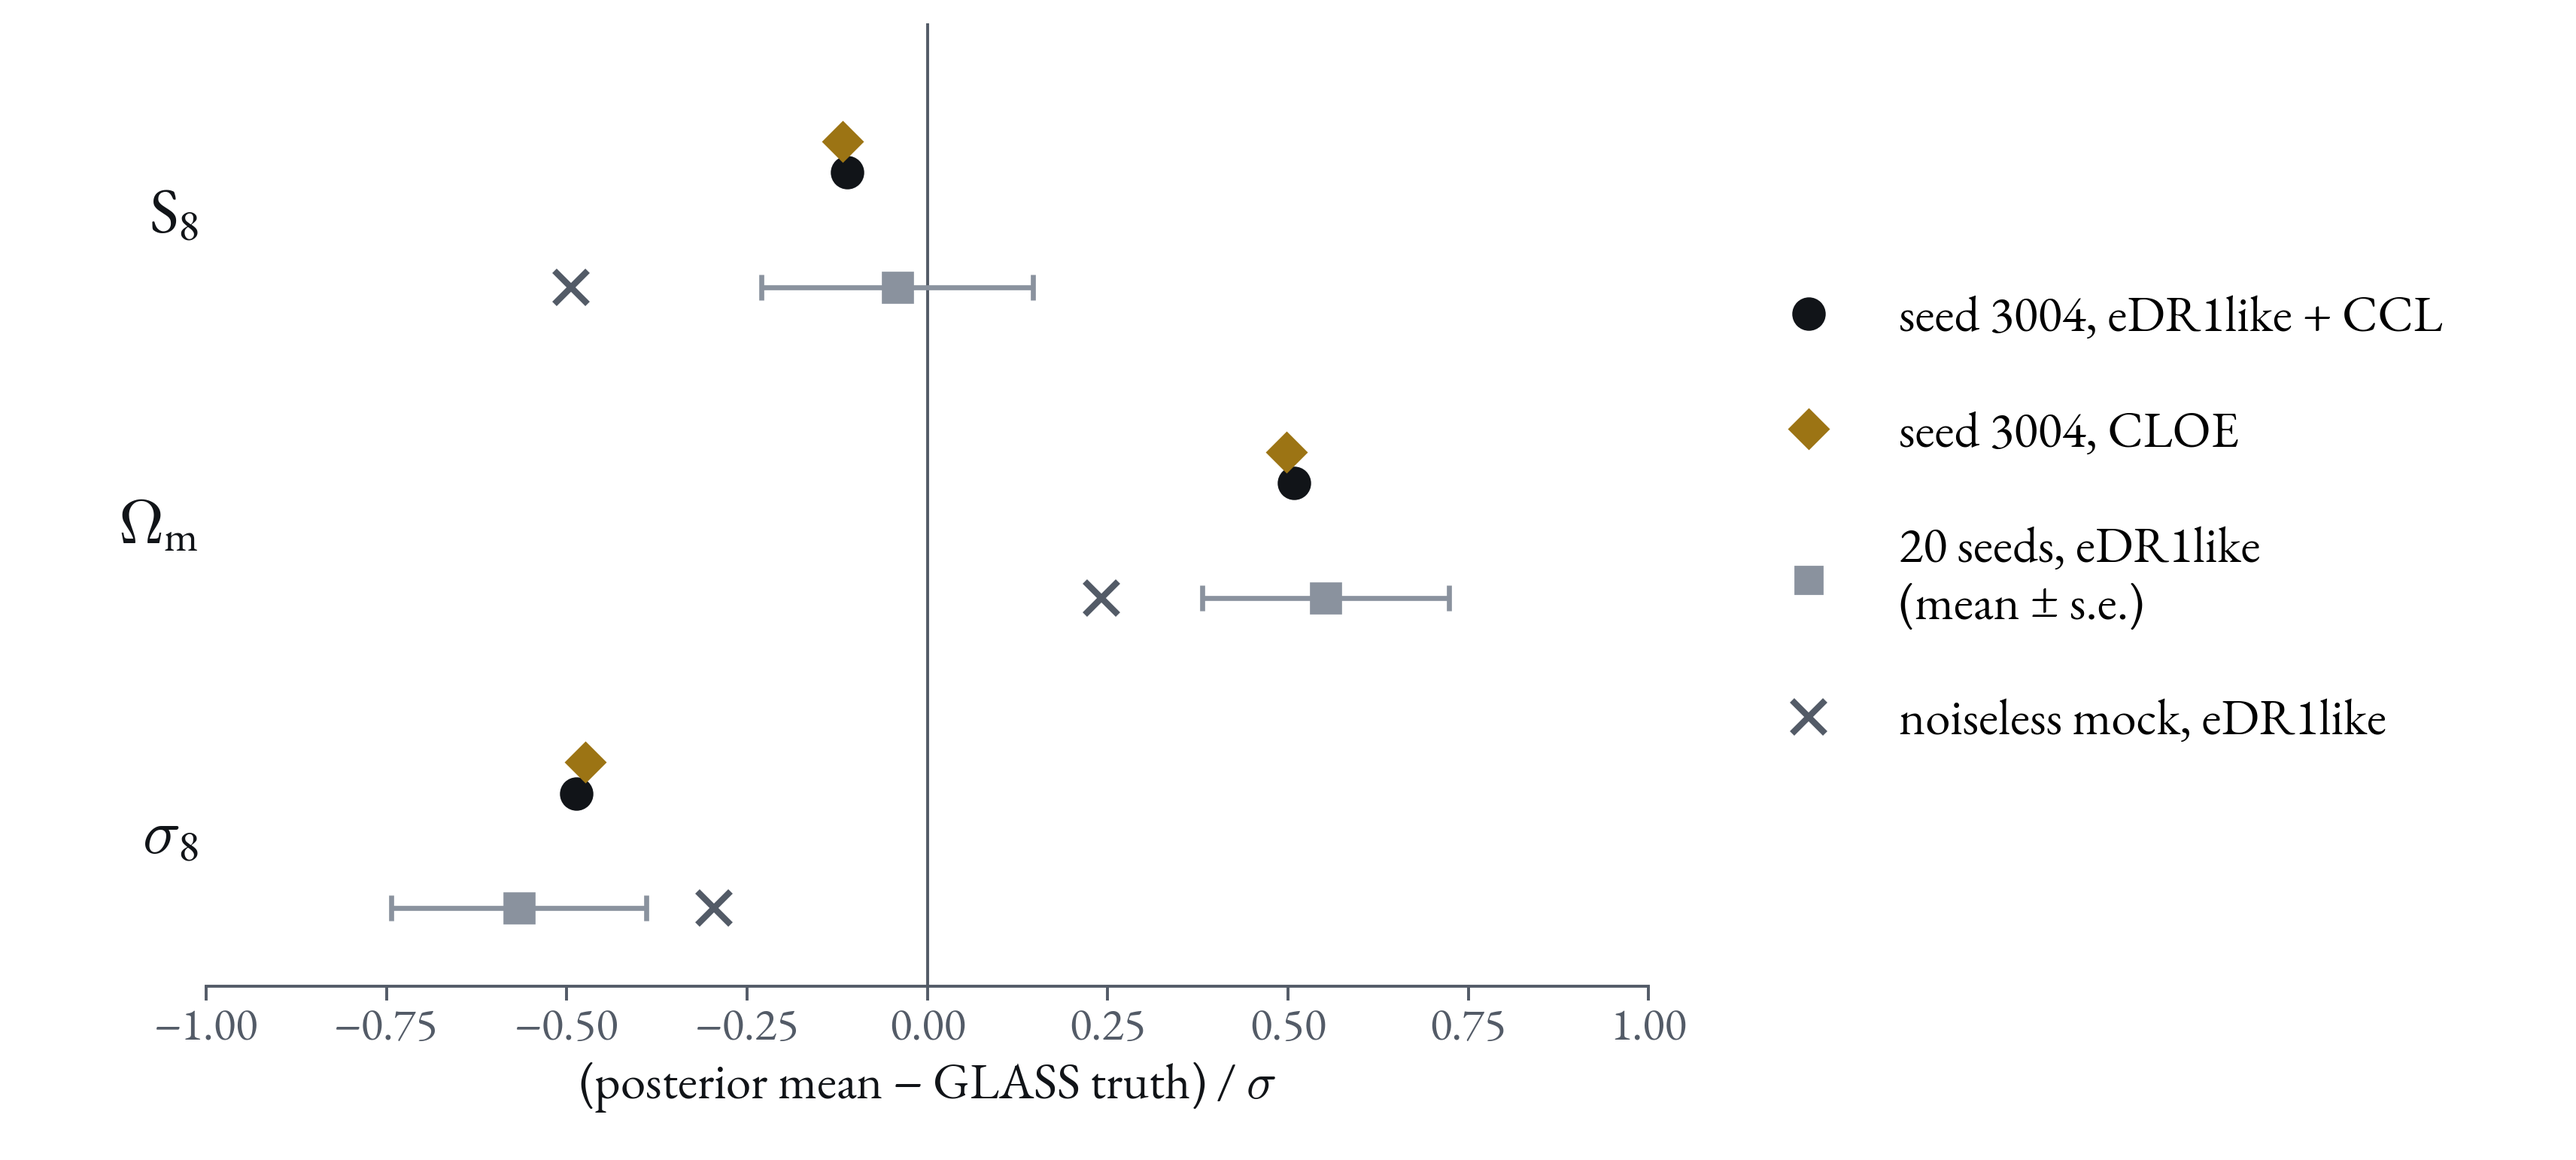
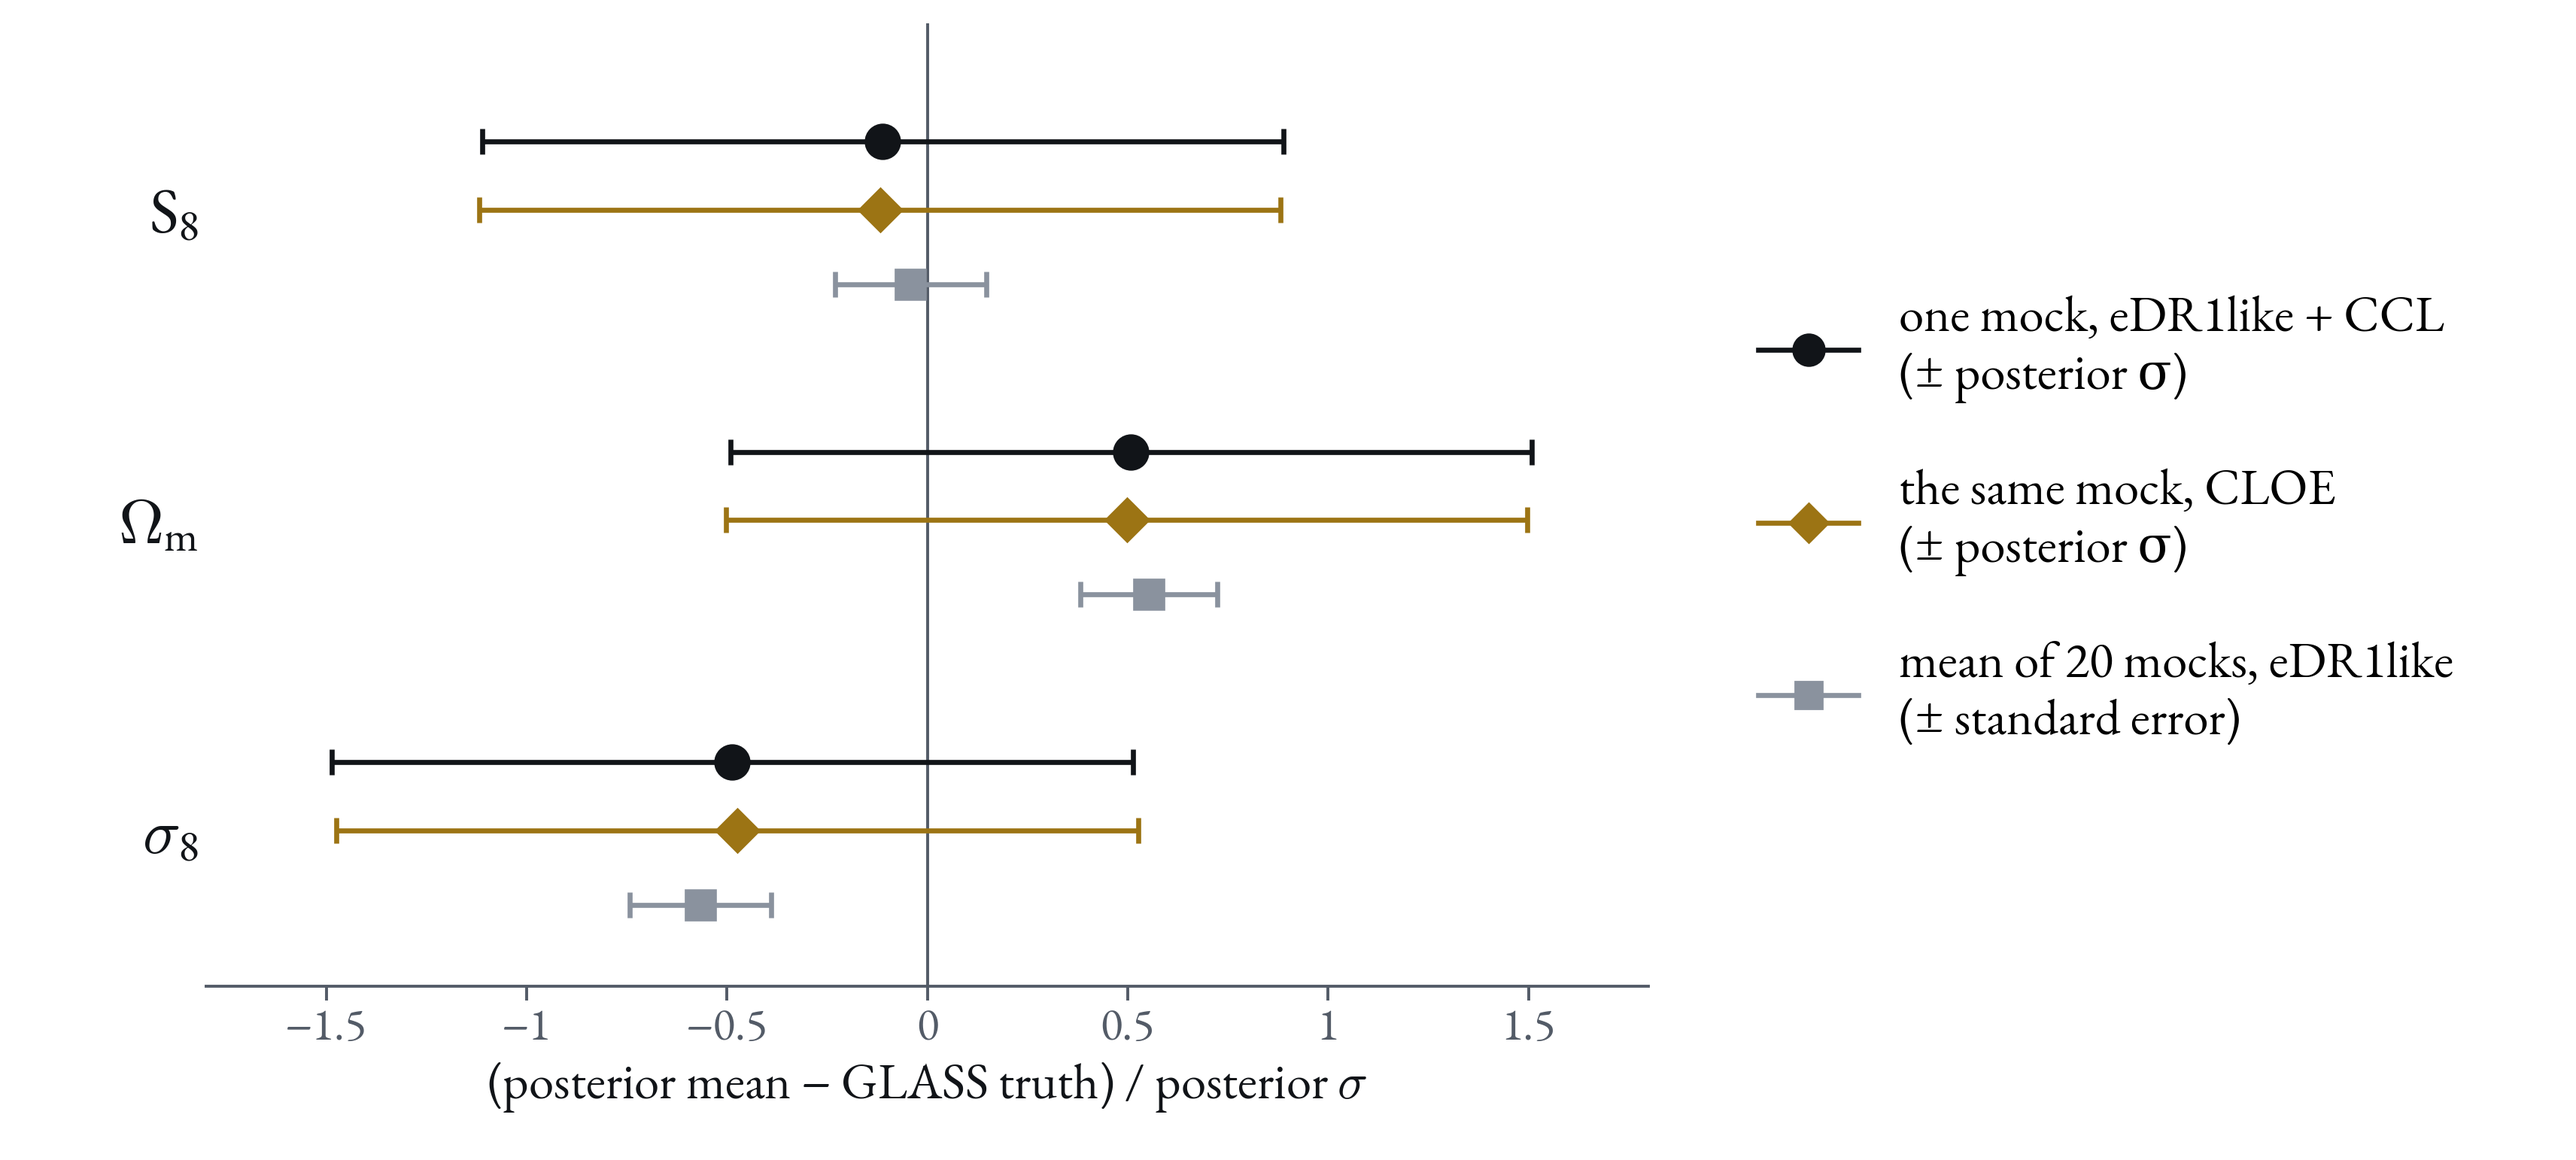
Paris SWG deck: truth-recovery figure with posterior error bars
Claude-Session: https://claude.ai/code/session_01JK7o9DgWZgiWoB9jhm8TMM

diff --git a/2611_Paris_SWG/slides/cloe-bias.html b/2611_Paris_SWG/slides/cloe-bias.html
@@ -1,15 +1,18 @@
 <section data-layout="figure">
-  <h2>Same bias against the GLASS truth</h2>
+  <h2>Both likelihoods recover the GLASS truth equally</h2>
   <figure>
-    <img src="images/paris26_cloe_truth_bias.png" alt="Posterior mean minus GLASS input truth in posterior sigma for S8, Omega_m and sigma8: seed 3004 with eDR1like and CLOE, the 20-seed ensemble mean, and a noiseless mock">
+    <img src="images/paris26_cloe_truth_bias.png" alt="Posterior mean minus GLASS input truth in units of the posterior sigma, for S8, Omega_m and sigma8: one mock with eDR1like and with CLOE, each with its one-sigma posterior width, and the mean of 20 mocks with its standard error">
   </figure>
   <aside class="notes">
     <ul class="skim">
-      <li><strong>Plotted</strong> — posterior mean minus the GLASS input value, in units of the posterior σ, for seed 3004 with each likelihood; grey squares: mean over 20 GLASS seeds of the production (eDR1like) chain with its standard error; crosses: a chain on the noiseless mock.</li>
-      <li><strong>$S_8$</strong> — −0.11σ (eDR1like), −0.12σ (CLOE); ensemble −0.04 ± 0.19σ.</li>
-      <li><strong>$\Omega_\mathrm{m}$, $\sigma_8$</strong> — +0.51σ / +0.50σ and −0.49σ / −0.47σ, the same for both and matching the ensemble (+0.55 ± 0.17σ, −0.57 ± 0.18σ). They lie along the $\Omega_\mathrm{m}$–$\sigma_8$ degeneracy, and the ensemble study reads them as a projection effect of the marginal posterior, not a theory bias.</li>
-      <li><strong>Noiseless mock</strong> — shown for context; its $S_8$ offset (−0.49σ) is larger than seed 3004's or the ensemble's, and the sources do not explain it.</li>
-      <li><strong>Coverage</strong> — over the 20 seeds, the 68 % / 95 % $S_8$ intervals contain the truth in 80 % / 100 % of cases.</li>
+      <li><strong>Black and ochre</strong> — one GLASS mock (seed 3004) run with each likelihood: posterior mean minus the input value, with the posterior's own 1σ as the bar (1 in these units). The two agree to 0.02σ in every parameter shown.</li>
+      <li><strong>Grey</strong> — the mean of that offset over 20 GLASS mocks run with eDR1like, with its standard error. It says where a typical mock lands, so the single mock sitting on it is expected, not a coincidence.</li>
+      <li><strong>$S_8$</strong> — recovered: −0.11σ (eDR1like) and −0.12σ (CLOE) on the one mock, −0.04 ± 0.19σ over the 20.</li>
+      <li><strong>$\Omega_\mathrm{m}$, $\sigma_8$</strong> — the 20-mock means are +0.55 ± 0.17σ and −0.57 ± 0.18σ, so the marginal means do sit half a σ from the truth, in opposite directions along the $\Omega_\mathrm{m}$–$\sigma_8$ degeneracy. The ensemble study reads this as a projection effect of marginalising a curved posterior, not a theory error; it is the same with both likelihoods (+0.51σ / +0.50σ and −0.49σ / −0.47σ on the one mock).</li>
+      <li><strong>Coverage</strong> — over the 20 mocks, the 68 % / 95 % $S_8$ intervals contain the truth in 80 % / 100 % of cases.</li>
     </ul>
+    <details><summary>Not plotted</summary>
+    <p>A chain on the noiseless mock (eDR1like) sits at −0.49σ in $S_8$, +0.24σ in $\Omega_\mathrm{m}$ and −0.30σ in $\sigma_8$. Its $S_8$ offset is larger than the 20-mock mean and is not explained by the sources used here.</p>
+    </details>
   </aside>
 </section>

diff --git a/2611_Paris_SWG/make_cloe_figures.py b/2611_Paris_SWG/make_cloe_figures.py
@@ -173,23 +173,24 @@ def fig_truth_bias():
     ax.axvline(0, color=MUTED, lw=1.4)
     for i, (p, _) in enumerate(params):
         r = b[p]
-        ax.errorbar(r["ensemble_mean"], i + 0.25, xerr=r["ensemble_mean_se"], fmt="s", ms=13, color="#8A929E",
+        # one chain: the posterior mean with its own 1 sigma, which is 1 in these units
+        ax.errorbar(r["edr1like_ccl"], i - 0.22, xerr=1, fmt="o", ms=15, color=REF_C, capsize=6, lw=2.4, mew=2.4)
+        ax.errorbar(r["cloe"], i, xerr=1, fmt="D", ms=13, color=CLOE_C, capsize=6, lw=2.4, mew=2.4)
+        # mean over the 20 seeds with its standard error
+        ax.errorbar(r["ensemble_mean"], i + 0.24, xerr=r["ensemble_mean_se"], fmt="s", ms=13, color="#8A929E",
                     capsize=6, lw=2.4, mew=2.4)
-        ax.plot(r["noiseless"], i + 0.25, "x", ms=16, mew=3, color=MUTED)
-        ax.plot(r["edr1like_ccl"], i - 0.12, "o", ms=15, color=REF_C)
-        ax.plot(r["cloe"], i - 0.22, "D", ms=13, color=CLOE_C)
     ax.set_yticks(range(len(params)), [l for _, l in params])
     ax.tick_params(axis="y", length=0, labelsize=LABEL + 6, labelcolor=INK)
     ax.spines["left"].set_visible(False)
     ax.set_ylim(len(params) - 0.5, -0.6)
-    ax.set_xlim(-1, 1)
-    ax.set_xlabel(r"(posterior mean − GLASS truth) / $\sigma$")
-    hs = [plt.Line2D([], [], ls="", marker="o", ms=15, color=REF_C),
-          plt.Line2D([], [], ls="", marker="D", ms=13, color=CLOE_C),
-          plt.Line2D([], [], ls="", marker="s", ms=13, color="#8A929E"),
-          plt.Line2D([], [], ls="", marker="x", ms=16, mew=3, color=MUTED)]
-    fig.legend(hs, ["seed 3004, eDR1like + CCL", "seed 3004, CLOE", "20 seeds, eDR1like\n(mean ± s.e.)",
-                    "noiseless mock, eDR1like"],
+    ax.set_xlim(-1.8, 1.8)
+    ax.set_xticks([-1.5, -1, -0.5, 0, 0.5, 1, 1.5], ["−1.5", "−1", "−0.5", "0", "0.5", "1", "1.5"])
+    ax.set_xlabel(r"(posterior mean − GLASS truth) / posterior $\sigma$")
+    hs = [plt.Line2D([], [], ls="-", lw=2.4, marker="o", ms=15, color=REF_C),
+          plt.Line2D([], [], ls="-", lw=2.4, marker="D", ms=13, color=CLOE_C),
+          plt.Line2D([], [], ls="-", lw=2.4, marker="s", ms=13, color="#8A929E")]
+    fig.legend(hs, ["one mock, eDR1like + CCL\n(± posterior σ)", "the same mock, CLOE\n(± posterior σ)",
+                    "mean of 20 mocks, eDR1like\n(± standard error)"],
                loc="center left", bbox_to_anchor=(0.665, 0.55), frameon=False, labelspacing=1.3,
                fontsize=LABEL)
     fig.savefig(os.path.join(IMG, "paris26_cloe_truth_bias.png"), dpi=DPI)
